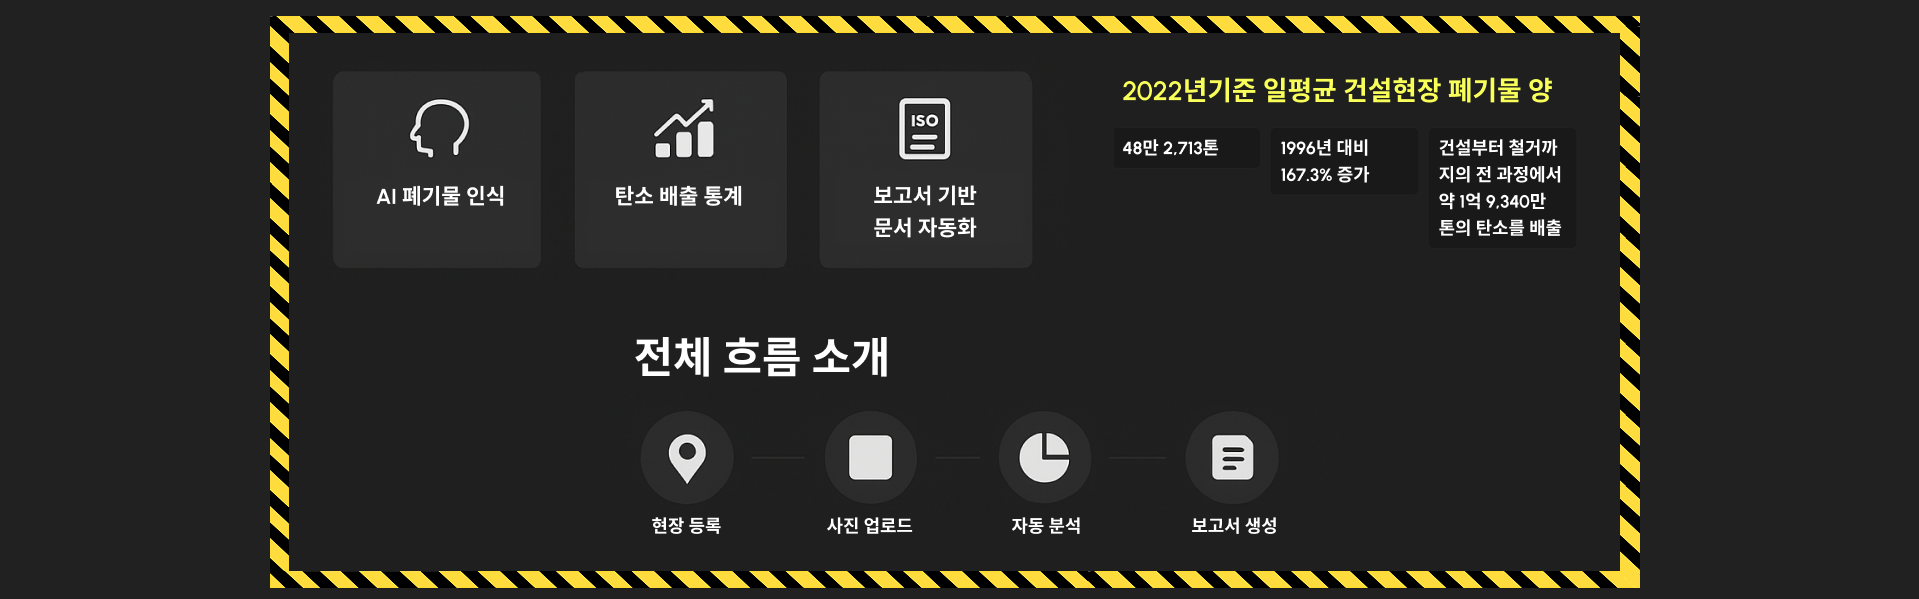
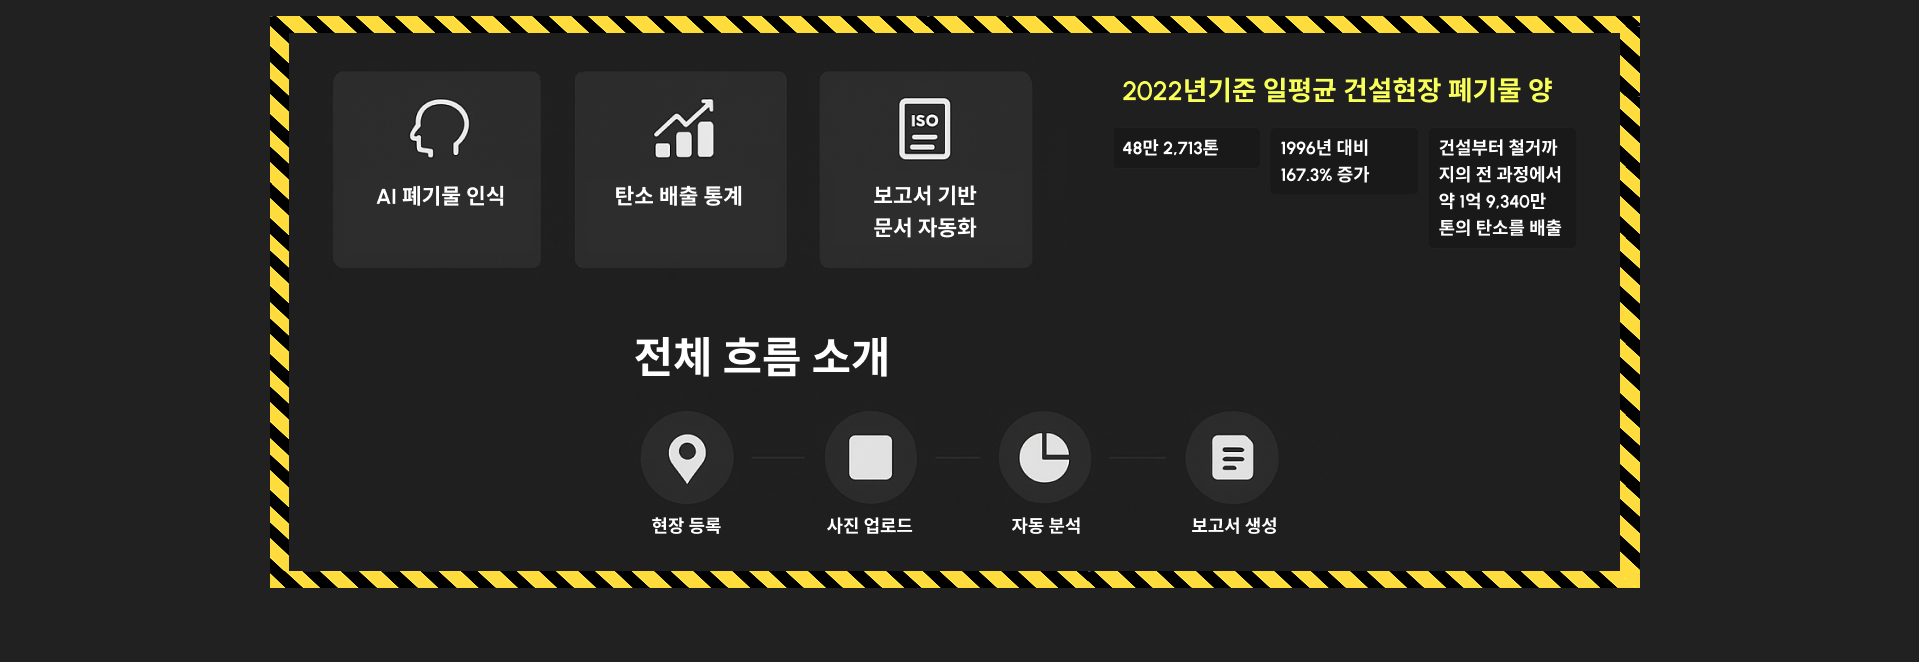
2025-05-07 수요일
메인화면 배경 추가
메인화면 창 줄어들었을때 글씨, 버튼아이콘 겹쳐보이는현상 수정(완벽하지는않음)
3P2이미지 파일 수정
메인화면 로딩 시 크레인 이미지 애니메이션효과 추가

diff --git a/static/css/GG_001_main.css b/static/css/GG_001_main.css
@@ -1,3 +1,22 @@
+html, body{
+    margin : 0;
+    padding : 0;
+    height: 50vh;
+    background-color : #212121;
+    min-width: 768px;
+    min-height: 768px;
+    overflow-x: auto;
+    scrollbar-width: none;
+    -ms-overflow-style: none;
+    font-family: 'paybooc-Bold';
+    background-image: url('/static/img/background.png');
+    background-size: cover;       /* 이미지가 화면 꽉 채우게 */
+    background-position: center;  /* 가운데 정렬 */
+    background-repeat: no-repeat; /* 반복 안 함 */
+
+}
+
+
 @font-face {
     font-family: 'Paperlogy-8ExtraBold';
     src: url('https://fastly.jsdelivr.net/gh/projectnoonnu/2408-3@1.0/Paperlogy-8ExtraBold.woff2') format('woff2');
@@ -36,11 +55,14 @@
 
 
 #crain {
-  height : 49em;
+  height : 40vw;
+  width : 30vw;
   position: fixed;
-  left: 52%;
-  top : 5%;
+  left: 54vw;
+  top : 3.5vw;
   z-index: 99;
+  animation: fadeInUp 1s ease forwards;
+  animation-delay: 0.5s;
 }
 
 
@@ -57,10 +79,11 @@
 	position: fixed;
     z-index: 10;
 	top: 18%;
-	left: 30%;
+	left: 33%;
 	transform: translate(-50%, -50%);
 	white-space: nowrap;
 	transition: transform 0.2s ease-out, opacity 0.2s ease-out;
+
 }
 
 .scroll-text2 {
@@ -68,7 +91,7 @@
 	position: fixed;
     z-index: 10;
 	top: 55%;
-	left: 35%;
+	left: 38%;
 	transform: translate(-50%, -50%);
 	white-space: nowrap;
 	transition: transform 0.2s ease-out, opacity 0.2s ease-out;
@@ -77,7 +100,7 @@
 	position: fixed;
     z-index: 10;
 	top: 72%;
-	left: 31%;
+	left: 38%;
 	transform: translate(-50%, -50%);
 	white-space: nowrap;
 	transition: transform 0.2s ease-out, opacity 0.2s ease-out;
@@ -87,7 +110,7 @@
   position: fixed;
   z-index: 10;
   top: 18%;
-  left: 10%;
+  left: 14%;
   transform: translateX(-100%);
   white-space: nowrap;
   transition: transform 0.5s ease-out, opacity 0.5s ease-out;
@@ -98,7 +121,7 @@
   position: fixed;
   z-index: 10;
   top: 30%;
-  left: 10%;
+  left: 14%;
   transform: translateX(-100%);
   white-space: nowrap;
   transition: transform 0.5s ease-out, opacity 0.5s ease-out;
@@ -109,8 +132,9 @@
 .scroll-text6 {
   position: fixed;
   z-index: 10;
+  height: 8vw;
   top: 40%;
-  left: 10%;
+  left: 14%;
   transform: translateX(-100%);
   white-space: nowrap;
   transition: transform 0.5s ease-out, opacity 0.5s ease-out;
@@ -121,7 +145,7 @@
   position: fixed;
   z-index: 10;
   top: 56%;
-  left: 10%;
+  left: 14%;
   transform: translateX(-100%);
   white-space: nowrap;
   transition: transform 0.5s ease-out, opacity 0.5s ease-out;
@@ -137,29 +161,45 @@
 
 #scrollImage {
   position: absolute;
-  margin-top: 1950px;
+  height: 34vw;
+  margin-top: 100vw;
   z-index: 9998;
 }
 
 
-#scrollImage2 {opacity: 0; transition: opacity 1s ease; position: fixed; z-index:20; top: 20%; left: 10%;}
+#scrollImage2 {
+    opacity: 0;
+    transition: opacity 1s ease;
+    position: fixed;
+    z-index:20;
+    top: 20%;
+    left: 10%;
+    height:500vw;
+}
 
 
 
-
+#buttons {
+    position: fixed;
+    bottom: 5vw;
+    display: flex;
+    flex-direction: row; /* ✅ 가로 정렬 */
+    justify-content: center; /* ✅ 가로 방향 중앙 정렬 */
+    align-items: center; /* 세로 정렬 */
+    gap: 80px;
+    width: 100%;
+    z-index: 999;
+}
 
 
 
   #Button1 {
-    position: fixed;
-    bottom: 100px;
-    right: 1000px;
-    padding: 15px 30px;
+    padding: 0.8vw 1.5vw;
     background-color: #FEBC01;
     color: #212121;
     border: none;
     border-radius: 10px;
-    font-size: 18px;
+    font-size: 1vw;
     font-weight: bold;
     cursor: pointer;
     box-shadow: 0 4px 10px rgba(0,0,0,0.3);
@@ -169,15 +209,12 @@
     background-color: #E6B864;
   }
   #Button2 {
-    position: fixed;
-    bottom: 100px;
-    right: 750px;
-    padding: 15px 30px;
+    padding: 0.8vw 1.5vw;
     background-color: #FEBC01;
     color: #212121;
     border: none;
     border-radius: 10px;
-    font-size: 18px;
+    font-size: 1vw;
     font-weight: bold;
     cursor: pointer;
     box-shadow: 0 4px 10px rgba(0,0,0,0.3);
@@ -190,42 +227,66 @@
   }		  
 
 
-  #Button3 {
+#buttons2 {
     position: fixed;
-    top: 16%;
-    left: 20%;
-    padding: 15px 30px;
+    top : 7vw;
+    left : 25vw;
+    display: flex;
+    flex-direction: row; /* ✅ 가로 정렬 */
+    gap: 80px;
+    width: 100%;
+    z-index: 999;
+}
+
+
+#Button3 {
+    padding: 0.8vw 1.5vw;
     background-color: #FEBC01;
     color: #212121;
     border: none;
     border-radius: 10px;
-    font-size: 18px;
+    font-size: 1vw;
     font-weight: bold;
     cursor: pointer;
     box-shadow: 0 4px 10px rgba(0,0,0,0.3);
-    transition: background-color 0.3s ease;
-    opacity: 0; transition: opacity 1s ease; position: fixed; z-index:8888;
+    opacity: 0;           /* 처음엔 안 보이게 */
+    transform: translateY(30px); /* 약간 아래에 숨기기 */
+    pointer-events: none; /* 클릭도 안 되게 처리 */
+    transition: opacity 0.6s ease, transform 0.6s ease;
   }
   #Button3:hover {
     background-color: #E6B864;
   }
   #Button4 {
-    position: fixed;
-    top: 16%;
-    left: 35%;
-    padding: 15px 30px;
+    padding: 0.8vw 1.5vw;
     background-color: #FEBC01;
     color: #212121;
     border: none;
     border-radius: 10px;
-    font-size: 18px;
+    font-size: 1vw;
     font-weight: bold;
     cursor: pointer;
     box-shadow: 0 4px 10px rgba(0,0,0,0.3);
-    transition: background-color 0.3s ease;
-    opacity: 0; transition: opacity 1s ease; position: fixed; z-index:8888;
+    opacity: 0;           /* 처음엔 안 보이게 */
+    transform: translateY(30px); /* 약간 아래에 숨기기 */
+    pointer-events: none; /* 클릭도 안 되게 처리 */
+    transition: opacity 0.6s ease, transform 0.6s ease;
+    z-index : 100;
   }
 
   #Button4:hover {
     background-color: #E6B864;
   }
+
+
+
+@keyframes fadeInUp {
+from {
+    opacity: 0;
+    transform: translateY(30px);
+    }
+to {
+    opacity: 1;
+    transform: translateY(0);
+    }
+   }

diff --git a/templates/GG_001_main.html b/templates/GG_001_main.html
@@ -8,22 +8,23 @@
 {% endblock %}
 
 {% block content %}
+<meta name="viewport" content="width=device-width, initial-scale=1.0">
 
 <img id="crain" src="/static/img/crain.png" alt="crain"/>
 
-<h1 class="scroll-text" id="scrollText1" style="font-size: 150px; color: #FEBC01; line-height: 0.9;">
+<h1 class="scroll-text" id="scrollText1" style="font-size: 8vw; color: #FEBC01; line-height: 0.9;">
   Garbage<br>Guard
 </h1>
-<h1 class="scroll-text2" id="scrollText2" style="font-size: 80px; color: white;">건설현장 폐기물<br>똑똑하게 처리하자</h1>
-<h1 class="scroll-text3" id="scrollText3" style="font-size: 30px; color: white;">AI가 인식하고 탄소를 계산해드립니다</h1>
+<h1 class="scroll-text2" id="scrollText2" style="font-size: 4vw; color: white;">건설현장 폐기물<br>똑똑하게 처리하자</h1>
+<h1 class="scroll-text3" id="scrollText3" style="font-size: 2vw; color: white;">AI가 인식하고 탄소를 계산해드립니다</h1>
 
 
 
 
-<h3 class="scroll-text4" id="scrollText4" style="font-size: 50px; color: #FEBC01;"><a style="font-size: 70px;">왜</a> 이 서비스가 필요한가요?</h3>
-<h3 class="scroll-text5" id="scrollText5" style="font-size: 30px; color: white;">건설 산업의 폐기물과 탄소 문제, 지금 해결해야 할 때입니다.</h3>
+<h3 class="scroll-text4" id="scrollText4" style="font-size: 2.5vw; color: #FEBC01;"><a style="font-size: 4vw;">왜</a> 이 서비스가 필요한가요?</h3>
+<h3 class="scroll-text5" id="scrollText5" style="font-size: 1.5vw; color: white;">건설 산업의 폐기물과 탄소 문제, 지금 해결해야 할 때입니다.</h3>
 <img class="scroll-text6" id="scrollText6" src="/static/img/why.png" alt="why"/>
-<h3 class="scroll-text7" id="scrollText7" style="font-size: 30px; color: white;">전 세계 폐기물의 38%는 건설현장에서 발생합니다. <br>
+<h3 class="scroll-text7" id="scrollText7" style="font-size: 1.5vw; color: white;">전 세계 폐기물의 38%는 건설현장에서 발생합니다. <br>
                                                                                 그 중 상당수는 재활용되지 않고 매립 또는 소각되며 막대한 탄소를 배출합니다.<br>
                                                                                 저희 Garbage Guard는 지속 가능한 건설 산업을 만들어가는데 기여하고자 합니다.</h3>
 
@@ -34,13 +35,14 @@
 <img id="scrollImage2" src="/static/img/3P3.png" alt="New Image" >
 
 
-
+<div id="buttons">
 <a href="/upload/waste_disposal"><button id="Button1">사진 업로드 시작</button></a>
 <a href="{{ url_for('csr.show_csr') }}"><button id="Button2">현장 등록하기</button></a>
-
+</div>
+<div id="buttons2">
 <a href="/upload/waste_disposal"><button id="Button3">사진 업로드 시작</button></a>
 <a href="{{ url_for('csr.show_csr') }}"><button id="Button4">현장 등록하기</button></a>
-
+</div>
 <!-- JS 연결 -->
 <script type="text/javascript" src="{{ url_for('static', filename='js/GG_001_main.js') }}"></script>
 

diff --git a/static/css/layout.css b/static/css/layout.css
@@ -1,7 +1,24 @@
-html, body{margin: 0;padding: 0;background-color: #212121; height: 285vh; scrollbar-width: none;-ms-overflow-style: none;font-family: 'paybooc-Bold';}
+html, body{
+    margin : 0;
+    padding : 0;
+    background-color : #212121;
+    min-width: 768px;
+    min-height: 768px;
+    overflow-x: auto;
+    scrollbar-width: none;
+    -ms-overflow-style: none;
+    font-family: 'paybooc-Bold';
+    background-image: url('/static/img/background.png');
+    background-size: cover;       /* 이미지가 화면 꽉 채우게 */
+    background-position: center;  /* 가운데 정렬 */
+    background-repeat: no-repeat; /* 반복 안 함 */
+
+}
+
+
 body::-webkit-scrollbar {display: none;}
 header{width: 100%;height: 0%;background-color: #2e2e2e;}
-nav{width: 100%;height: 30px;float: left;background-color: #2e2e2e;position: fixed;}
+nav{width: 100%;float: left;background-color: #2e2e2e;position: fixed;}
 section{width: 100%;height: 100%;float: left;background-color: ;}
 footer{width: 100%;height: 1%;clear: both;background-color:;}
 
